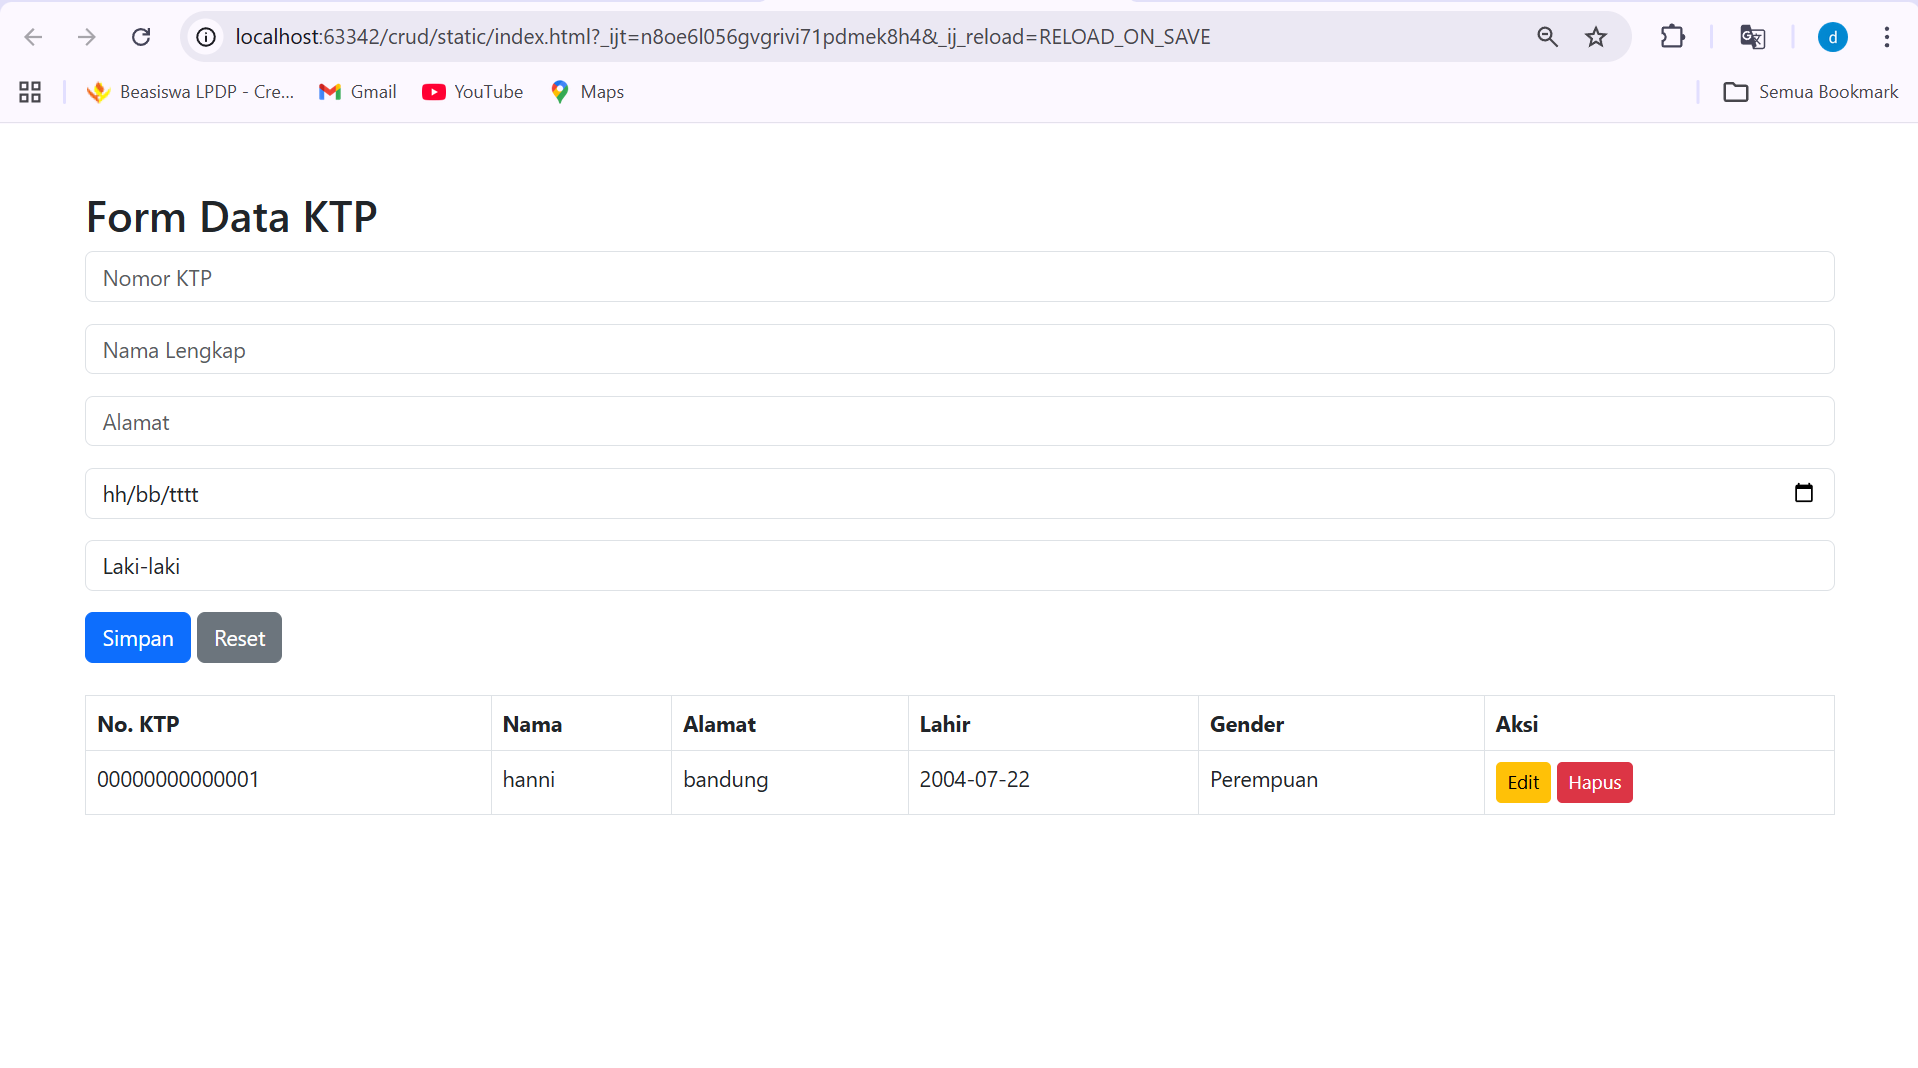
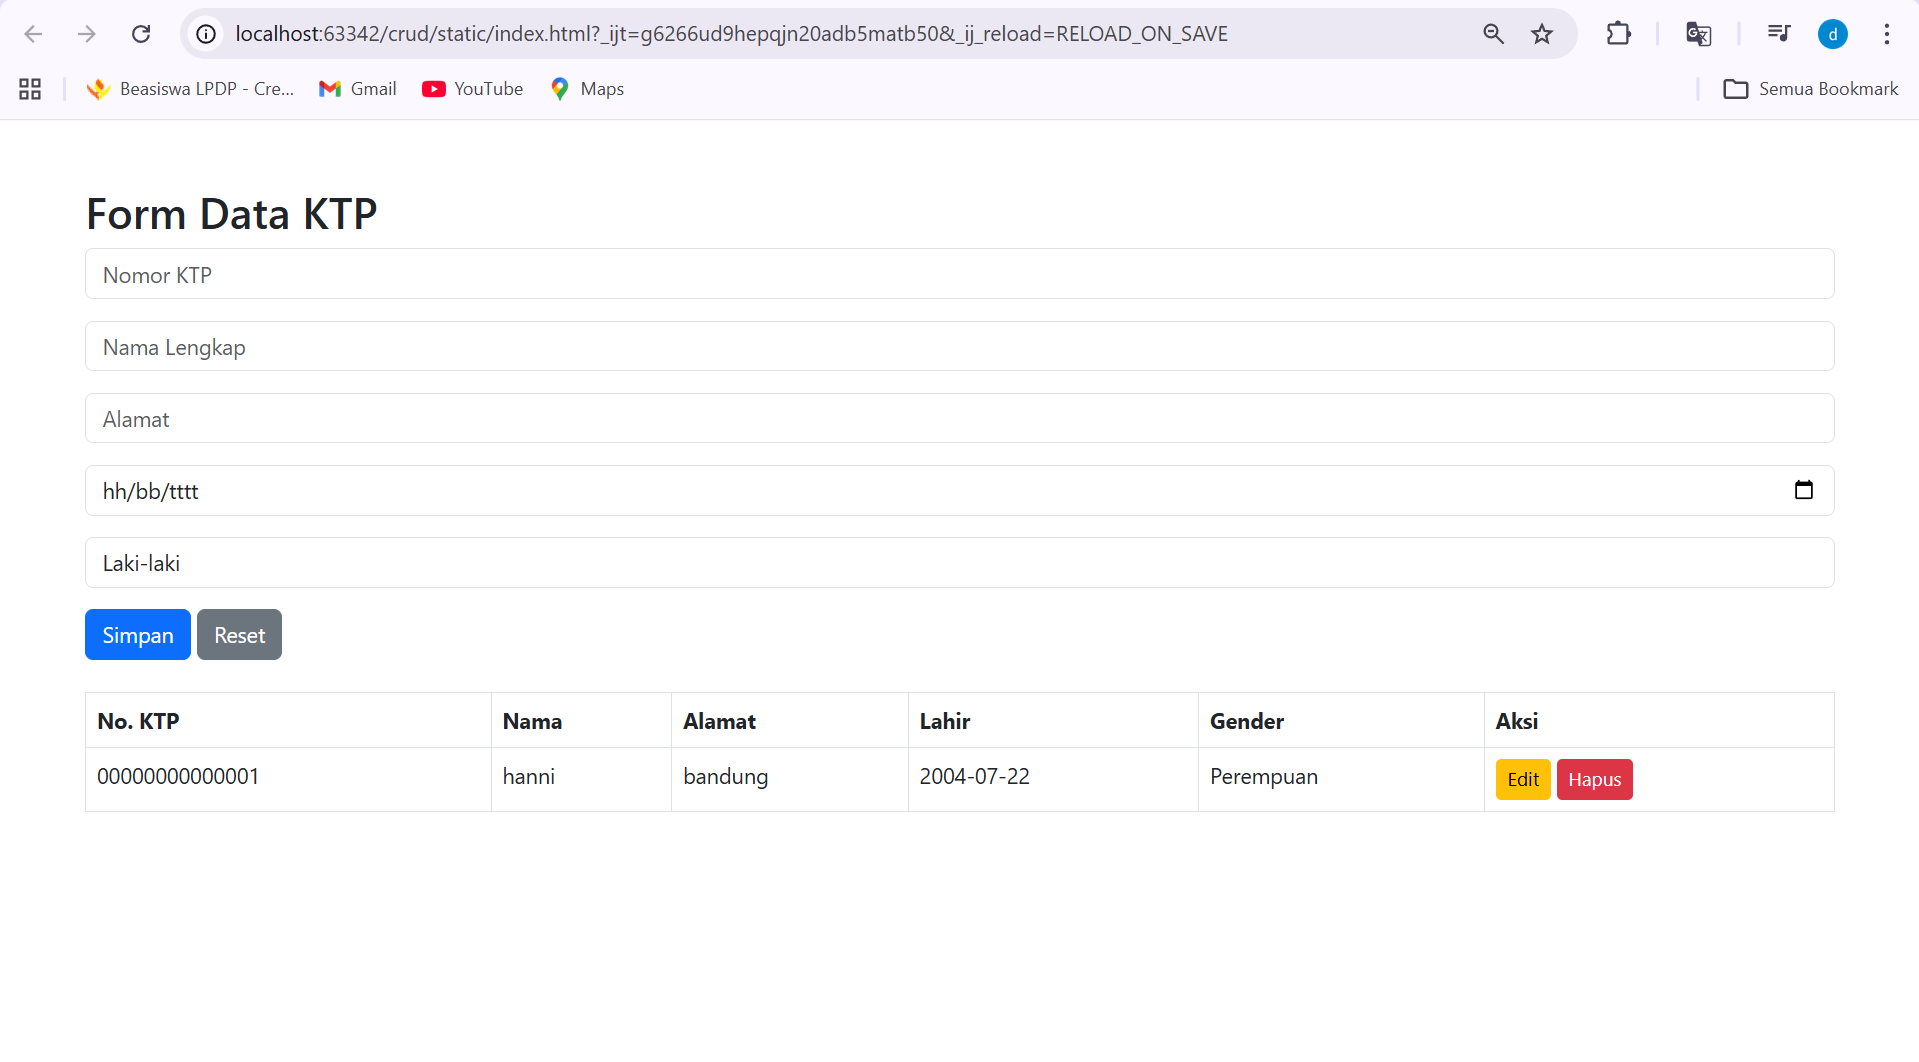
menembahkan screenshoot tampilan web

diff --git a/readme.md b/readme.md
@@ -67,10 +67,9 @@ Diberikan jika terjadi kesalahan (misal: nomor KTP sudah ada atau data tidak dit
 }
 ````
 
-## Tampilan ##
-
+## Tampilan ## 
 Create 
-![create.png](ss/create.png)
+![create.jpeg](ss/create.jpeg)
 ![hasil create.png](ss/hasil%20create.png)
 
 Update
